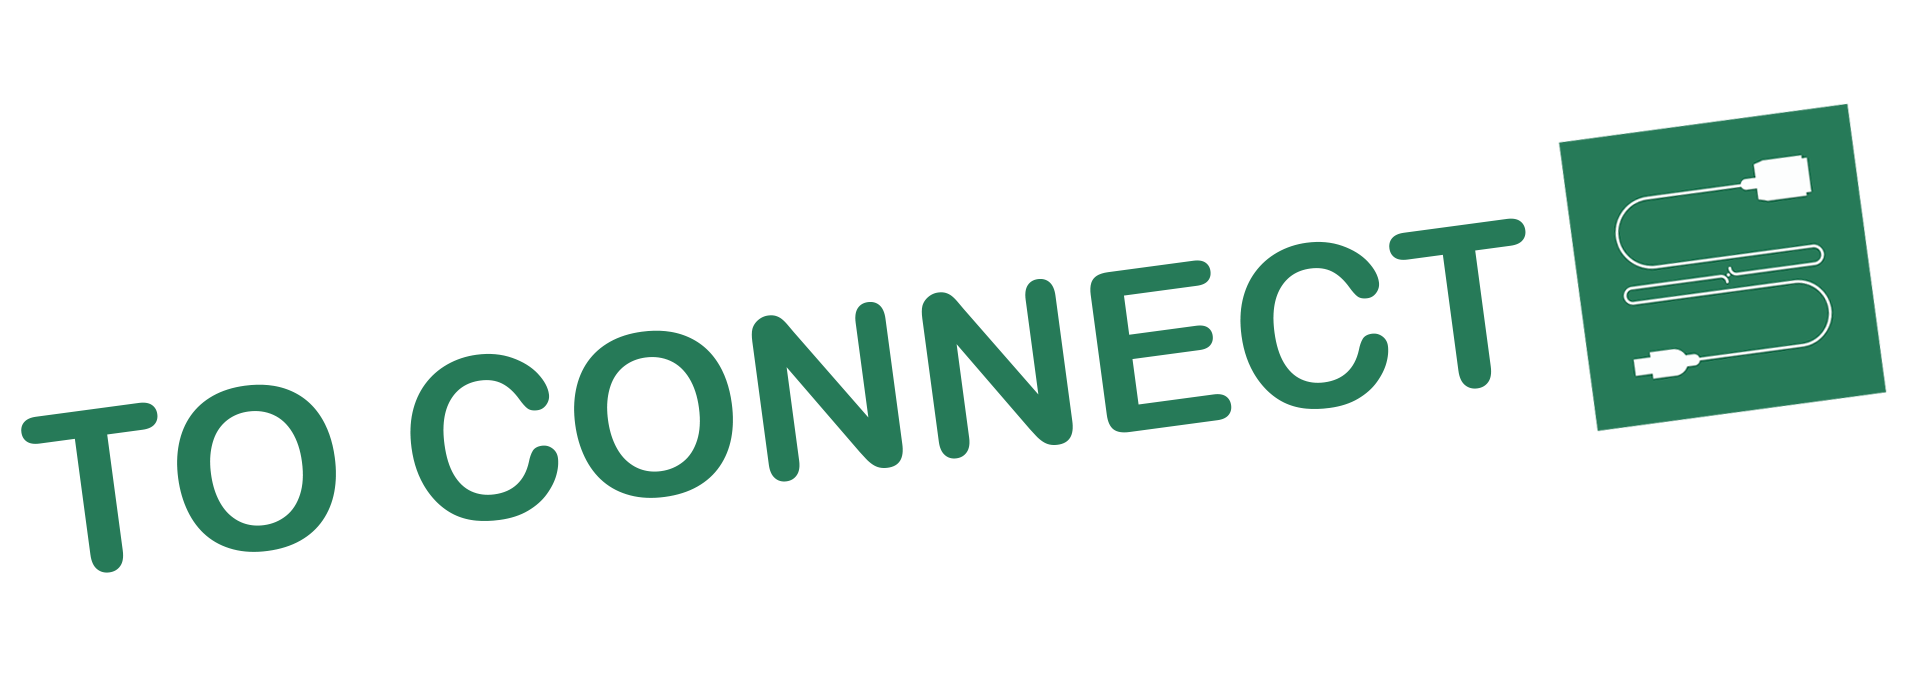
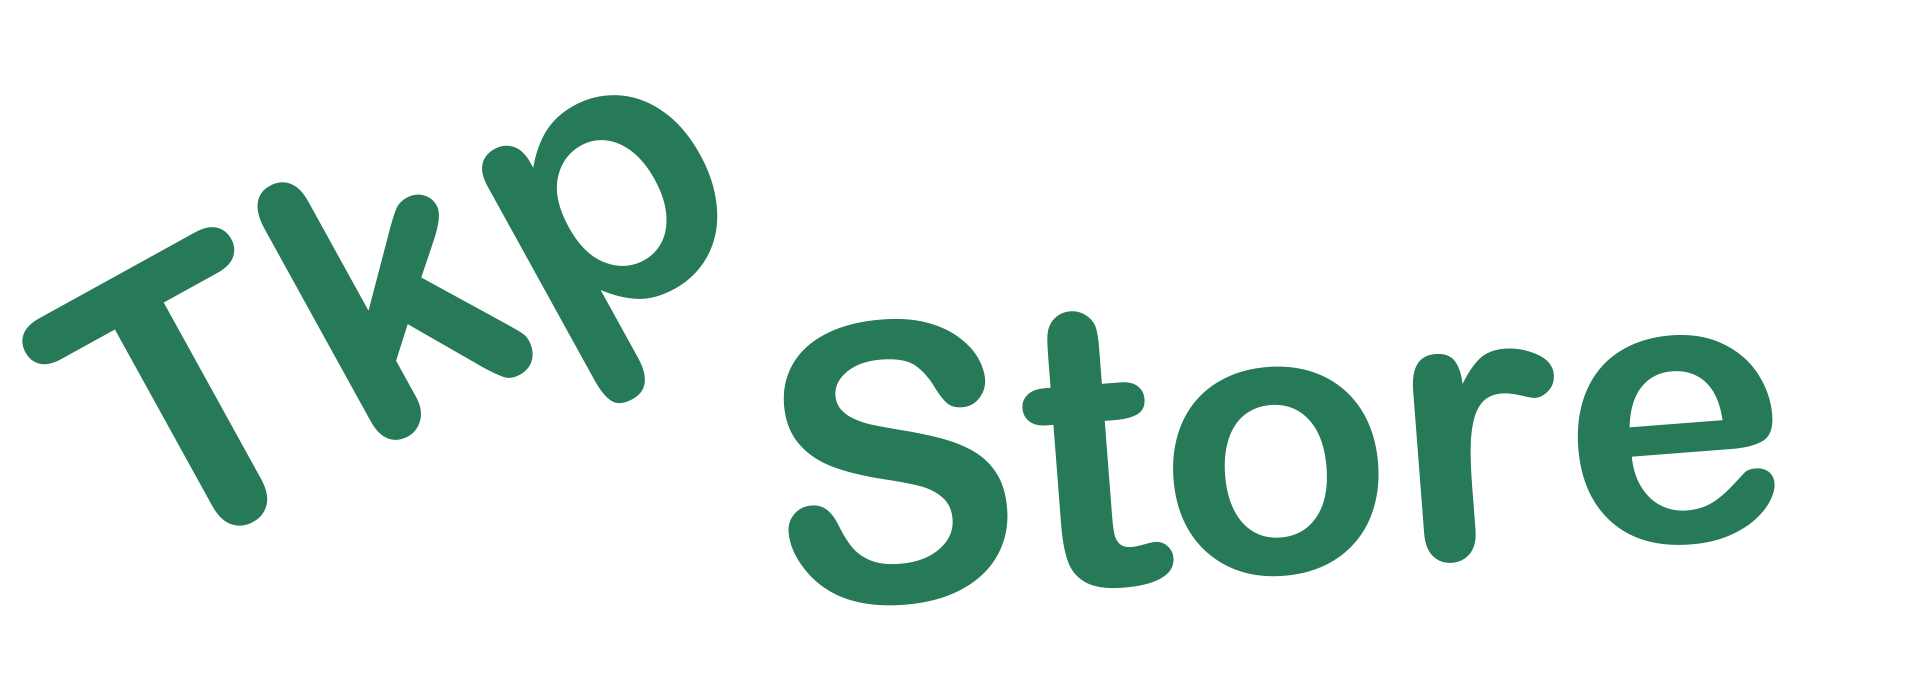
commit front

Changed region(s): [[0.0, 0.1235, 1.0, 0.8956]]

diff --git a/src/components/admin/AdminDashboard.tsx b/src/components/admin/AdminDashboard.tsx
@@ -105,7 +105,7 @@ function AdminDashboard() {
       <div style={{ background: "#fff", borderBottom: "1px solid #eee", padding: "15px 30px", display: "flex", justifyContent: "space-between", alignItems: "center", position: "sticky", top: 0, zIndex: 100 }}>
         <div style={{ display: "flex", alignItems: "center", gap: "12px" }}>
           <div style={{ width: "36px", height: "36px", borderRadius: "10px", background: "#e50914", display: "flex", alignItems: "center", justifyContent: "center", color: "#fff", fontSize: "0.9rem" }}><i className="fi-rr-settings"></i></div>
-          <div><span style={{ fontWeight: 700, fontSize: "1rem" }}>TO CONNECT</span><span style={{ display: "block", fontSize: "0.75rem", color: "#999" }}>Administration</span></div>
+          <div><span style={{ fontWeight: 700, fontSize: "1rem" }}>Tkp Store</span><span style={{ display: "block", fontSize: "0.75rem", color: "#999" }}>Administration</span></div>
         </div>
         <div style={{ display: "flex", alignItems: "center", gap: "10px", flexWrap: "wrap" }}>
           <button onClick={() => setShowAddAdmin(true)} style={{ ...btnStyle, background: "#e50914", padding: "8px 18px", fontSize: "0.85rem" }}><i className="fi-rr-plus"></i> Ajouter admin</button>

diff --git a/src/components/contact-us/Contact.tsx b/src/components/contact-us/Contact.tsx
@@ -36,7 +36,7 @@ const Contact = () => {
     try {
       // Send contact message via WhatsApp link + email to admin
       const whatsappMsg = encodeURIComponent(
-        `Nouveau message de contact TO CONNECT:\n\nNom: ${formData.nom}\nEmail: ${formData.email}\nTel: ${formData.telephone}\n\nMessage:\n${formData.message}`
+        `Nouveau message de contact Tkp Store:\n\nNom: ${formData.nom}\nEmail: ${formData.email}\nTel: ${formData.telephone}\n\nMessage:\n${formData.message}`
       );
       window.open(`https://wa.me/22967357728?text=${whatsappMsg}`, "_blank");
 
@@ -145,7 +145,7 @@ const Contact = () => {
                 }}
               >
                 <h3 style={{ fontWeight: 700, marginBottom: "15px" }}>
-                  TO CONNECT
+                  Tkp Store
                 </h3>
                 <p style={{ opacity: 0.8, lineHeight: 1.6, marginBottom: "25px" }}>
                   Votre plateforme d'abonnements streaming et boutique en ligne.

diff --git a/src/components/about-us/About.tsx b/src/components/about-us/About.tsx
@@ -46,7 +46,7 @@ const About = () => {
                   </p>
                 </div>
                 <p>
-                  <strong>TOCONNECT</strong> est votre plateforme de confiance pour tous vos besoins.
+                  <strong>Tkp Store</strong> est votre plateforme de confiance pour tous vos besoins.
                   Que vous cherchiez des produits d'alimentation, des vêtements,
                   des chaussures, des accessoires ou des articles de косmétique,
                   nous avons tout ce qu'il vous faut.
@@ -63,7 +63,7 @@ const About = () => {
                 </p>
                 <p>
                   Découvrez notre large gamme de produits et laissez-vous tenter
-                  par nos offres exclusives. Bienvenue chez <strong>TOCONNECT</strong> -
+                  par nos offres exclusives. Bienvenue chez <strong>Tkp Store</strong> -
                   votre partenaire au quotidien.
                 </p>
               </div>

diff --git a/src/components/layout/layout-one/Footer.tsx b/src/components/layout/layout-one/Footer.tsx
@@ -27,7 +27,7 @@ function Footer() {
                         <img
                           src={process.env.NEXT_PUBLIC_URL + "/assets/img/logo/logo.png"}
                           className="gi-footer-logo"
-                          alt="TO CONNECT"
+                          alt="Tkp Store"
                           style={{ maxHeight: "40px" }}
                         />
                         <span style={{ fontSize: "1.1rem", fontWeight: 700, color: "#e50914" }}>
@@ -265,7 +265,7 @@ function Footer() {
                       <div className="gi-copy">
                         Copyright &copy; {new Date().getFullYear()}{" "}
                         <Link className="site-name" href="/" style={{ color: "#e50914" }}>
-                          TO CONNECT
+                          Tkp Store
                         </Link>{" "}
                         - Tous droits reserves.
                       </div>

diff --git a/src/components/layout/layout-one/header/HeaderTwo.tsx b/src/components/layout/layout-one/header/HeaderTwo.tsx
@@ -127,11 +127,11 @@ function HeaderTwo({ cartItems, wishlistItems }) {
                   <Link href="/" style={{ display: "flex", alignItems: "center", gap: "10px", textDecoration: "none" }}>
                     <img
                       src={process.env.NEXT_PUBLIC_URL + "/assets/img/logo/logo.png"}
-                      alt="TO CONNECT"
+                      alt="Tkp Store"
                       style={{ maxHeight: "45px" }}
                     />
                     {/* <span style={{ fontSize: "1.2rem", fontWeight: 700, color: "#e50914", lineHeight: 1.1 }}>
-                      TO CONNECT<br />
+                      Tkp Store<br />
                       <span style={{ fontSize: "0.7rem", color: "#333", fontWeight: 400 }}>TV & Boutique</span>
                     </span> */}
                   </Link>

diff --git a/src/components/about-us/Team.tsx b/src/components/about-us/Team.tsx
@@ -9,7 +9,7 @@ const Team = () => {
           Une équipe passionnée basée à Cotonou, dédiée à vous offrir le meilleur du streaming et du e-commerce au Bénin.
         </p>
         <div style={{ background: "#fff", borderRadius: "12px", padding: "30px", boxShadow: "0 2px 8px rgba(0,0,0,0.06)", maxWidth: "500px", margin: "0 auto" }}>
-          <h5 style={{ fontWeight: 700, marginBottom: "10px" }}>TO CONNECT</h5>
+          <h5 style={{ fontWeight: 700, marginBottom: "10px" }}>Tkp Store</h5>
           <p style={{ color: "#666", marginBottom: "5px" }}>Cotonou, Bénin</p>
           <p style={{ color: "#666", marginBottom: "5px" }}>+229 67 35 77 28</p>
           <p style={{ color: "#e50914" }}>lordjhd7@gmail.com</p>

diff --git a/src/components/about-us/Testimonials.tsx b/src/components/about-us/Testimonials.tsx
@@ -2,7 +2,7 @@
 
 const Testimonials = () => {
   const testimonials = [
-    { name: "Kofi A.", text: "Grâce à TO CONNECT, j'ai accès à Netflix et Spotify à des prix imbattables. Service rapide et fiable !", rating: 5 },
+    { name: "Kofi A.", text: "Grâce à Tkp Store, j'ai accès à Netflix et Spotify à des prix imbattables. Service rapide et fiable !", rating: 5 },
     { name: "Aminata D.", text: "La boutique en ligne est super pratique. Livraison rapide à Cotonou !", rating: 5 },
     { name: "Jean-Marc T.", text: "Le pack alimentaire est une excellente idée. Je compose mon panier chaque semaine.", rating: 4 },
   ];

diff --git a/src/components/model/MobileManuSidebar.tsx b/src/components/model/MobileManuSidebar.tsx
@@ -13,7 +13,7 @@ const MobileManuSidebar = ({ isMobileMenuOpen, closeMobileManu, toggleMainMenu, 
       {isMobileMenuOpen && (
         <div id="gi-mobile-menu" className="gi-mobile-menu gi-menu-open">
           <div className="gi-menu-title">
-            <span className="menu_title" style={{ color: "#e50914", fontWeight: 700 }}>TO CONNECT</span>
+            <span className="menu_title" style={{ color: "#e50914", fontWeight: 700 }}>Tkp Store</span>
             <button onClick={closeMobileManu} className="gi-close-menu">
               x
             </button>

diff --git a/src/components/admin/AdminLoginPage.tsx b/src/components/admin/AdminLoginPage.tsx
@@ -166,7 +166,7 @@ function AdminLoginPage() {
             {view === "newpass" && "Nouveau mot de passe"}
           </h2>
           <p style={{ color: "#999", fontSize: "0.9rem" }}>
-            {view === "login" && "TO CONNECT"}
+            {view === "login" && "Tkp Store"}
             {view === "forgot" && "Entrez votre email pour recevoir un code"}
             {view === "code" && `Code envoye a ${forgotEmail}`}
             {view === "newpass" && "Choisissez votre nouveau mot de passe"}

diff --git a/src/components/layout/layout-one/header/HeaderOne.tsx b/src/components/layout/layout-one/header/HeaderOne.tsx
@@ -43,7 +43,7 @@ function HeaderOne({ cartItems, wishlistItems }) {
             </div>
             <div className="col text-center header-top-center">
               <div className="header-top-message" style={{ color: "#fff", fontWeight: 600 }}>
-                TO CONNECT - Vos abonnements streaming & plus encore
+                Tkp Store - Vos abonnements streaming & plus encore
               </div>
             </div>
             <div className="col header-top-right d-none d-lg-block">

diff --git a/src/components/hero/HeroStreaming.tsx b/src/components/hero/HeroStreaming.tsx
@@ -138,7 +138,7 @@ function HeroStreaming() {
               }}>
                 <img
                   src="/assets/img/hero-bg/heroimage1.jpg"
-                  alt="TOCONNECT - Streaming & Boutique"
+                  alt="Tkp Store - Streaming & Boutique"
                   style={{
                     width: "100%",
                     maxWidth: "500px",

diff --git a/src/app/layout.tsx b/src/app/layout.tsx
@@ -8,7 +8,7 @@ interface RootLayoutProps {
 }
 
 export const metadata = {
-  title: "TO CONNECT - Abonnements Streaming & Boutique en ligne",
+  title: "Tkp Store - Abonnements Streaming & Boutique en ligne",
   description: "Plateforme d'abonnements Netflix, Prime Video, Spotify, GogoFlix et boutique en ligne au Benin",
   icons: {
     icon: "/favicon.ico",
